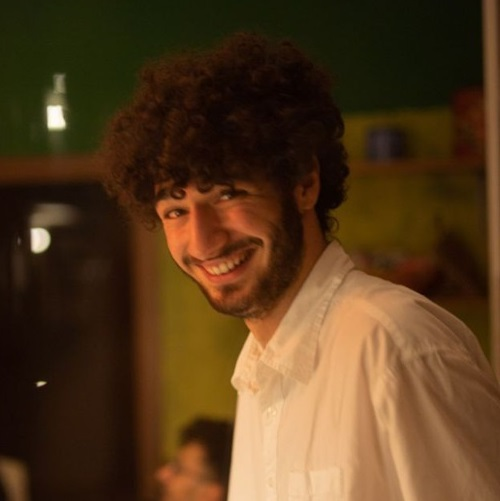
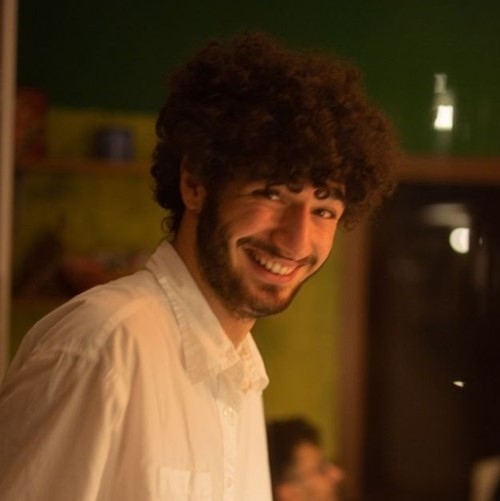
Create main page

diff --git a/_layouts/single.html b/_layouts/single.html
@@ -22,7 +22,7 @@ layout: default
 <div id="main" role="main">
   {% include sidebar.html locale=locale %}
 
-  <article class="page h-entry" itemscope itemtype="https://schema.org/CreativeWork"{% if page.locale %} lang="{{ page.locale }}"{% endif %}>
+  <article class="page h-entry {% if page.author_profile == false %} widened {% endif %}" itemscope itemtype="https://schema.org/CreativeWork"{% if page.locale %} lang="{{ page.locale }}"{% endif %}>
     {% if page.title %}<meta itemprop="headline" content="{{ page.title | replace: '|', '&#124;' | markdownify | strip_html | strip_newlines | escape_once }}">{% endif %}
     {% if page.excerpt %}<meta itemprop="description" content="{{ page.excerpt | markdownify | strip_html | strip_newlines | escape_once }}">{% endif %}
     {% if page.date %}<meta itemprop="datePublished" content="{{ page.date | date_to_xmlschema }}">{% endif %}

diff --git a/assets/css/main.scss b/assets/css/main.scss
@@ -37,6 +37,13 @@ h1, h2, h3, h4, h5, h6 {
   }
 }
 
+@media (min-width: 80em) {
+  .page.widened {
+    width: calc(100% - 200px);
+    padding-inline-end: 200px;
+  }
+}
+
 div.sidebar {
 	opacity: 1;
 }
@@ -59,7 +66,7 @@ div.grid__item article.archive__item {
 		margin: 0.5em 0.5em 0.5em 0.5em;
 		text-align: center;
 		font-weight: bold;
-		color:white;
+		color: white;
 	}
 
 	.dropdown {
@@ -73,8 +80,11 @@ div.grid__item article.archive__item {
 		margin: 0em 0.6em 0.6em 0.6em;
 		opacity: 1;
 		text-align: center;
-		word-break: break-all;
 	}
+}
+
+p.archive__item-excerpt {
+	word-break: break-all;
 }
 
 @media (min-width: 64em) {
@@ -121,6 +131,10 @@ div.grid__item article.archive__item:hover {
   .grid__item .archive__item-teaser {
     max-height: 200px;
   }
+}
+
+.list__item {
+	clear: both;
 }
 
 .grid__item {

diff --git a/_includes/archive-single.html b/_includes/archive-single.html
@@ -23,7 +23,7 @@
 		{% if include.type == "grid" %}
 			{{ title }} <a class="u-url" href="{{ post.link }}" rel="permalink"><span class="sr-only">Permalink</span></a>
 		{% else %}
-        	<a href="{{ post.link }}">{{ title }}</a> <a class="u-url" href="{{ post.url | relative_url }}" rel="permalink"><i class="fas fa-link" aria-hidden="true" title="permalink"></i><span class="sr-only">Permalink</span></a>
+        	<a href="{{ post.link }}">{{ title }}</a> {% if post.permalink %} <a class="u-url" href="{{ post.url | relative_url }}" rel="permalink"><i class="fas fa-link" aria-hidden="true" title="permalink"></i><span class="sr-only">Permalink</span></a> {% endif %}
 		{% endif %}
 	  {% else %}
         <a class="u-url" href="{{ post.url | relative_url }}" rel="permalink">{{ title }}</a>

diff --git a/index.html b/index.html
@@ -4,4 +4,27 @@ permalink: /
 author_profile: false
 ---
 
-Site under construction!
+<h1 style="text-align: center;">Matteo Mangioni</h1>
+<p style="text-align: center; margin-top:-0.5em;">Game Designer & Developer</p>
+
+<div class="entries-grid">
+	{% for post in site['games'] limit:4 %}
+	  	{% include archive-single.html type='grid' %}
+	{% endfor %}
+</div>
+
+<div style="clear: both; text-align: center;">
+	<a href="/games/"><h3><i>More games ></i></h3></a>
+</div>
+
+<div class="entries-list">
+	{% for post in site['posts'] limit:4 %}
+	  	{% include archive-single.html type='list' %}
+	{% endfor %}
+</div>
+
+{% if site['posts'].size > 0 %}
+	<div style="clear: both; text-align: center;">
+		<a href="/blog/"><h3><i>More articles ></i></h3></a>
+	</div>
+{% endif %}

diff --git a/_pages/blog.md b/_pages/blog.md
@@ -4,4 +4,5 @@ permalink: /blog/
 layout: collection
 collection: posts
 author_profile: false
+center_title: true
 ---

diff --git a/_pages/games.md b/_pages/games.md
@@ -6,4 +6,5 @@ collection: games
 entries_layout: grid
 classes: wide
 author_profile: false
+center_title: true
 ---
